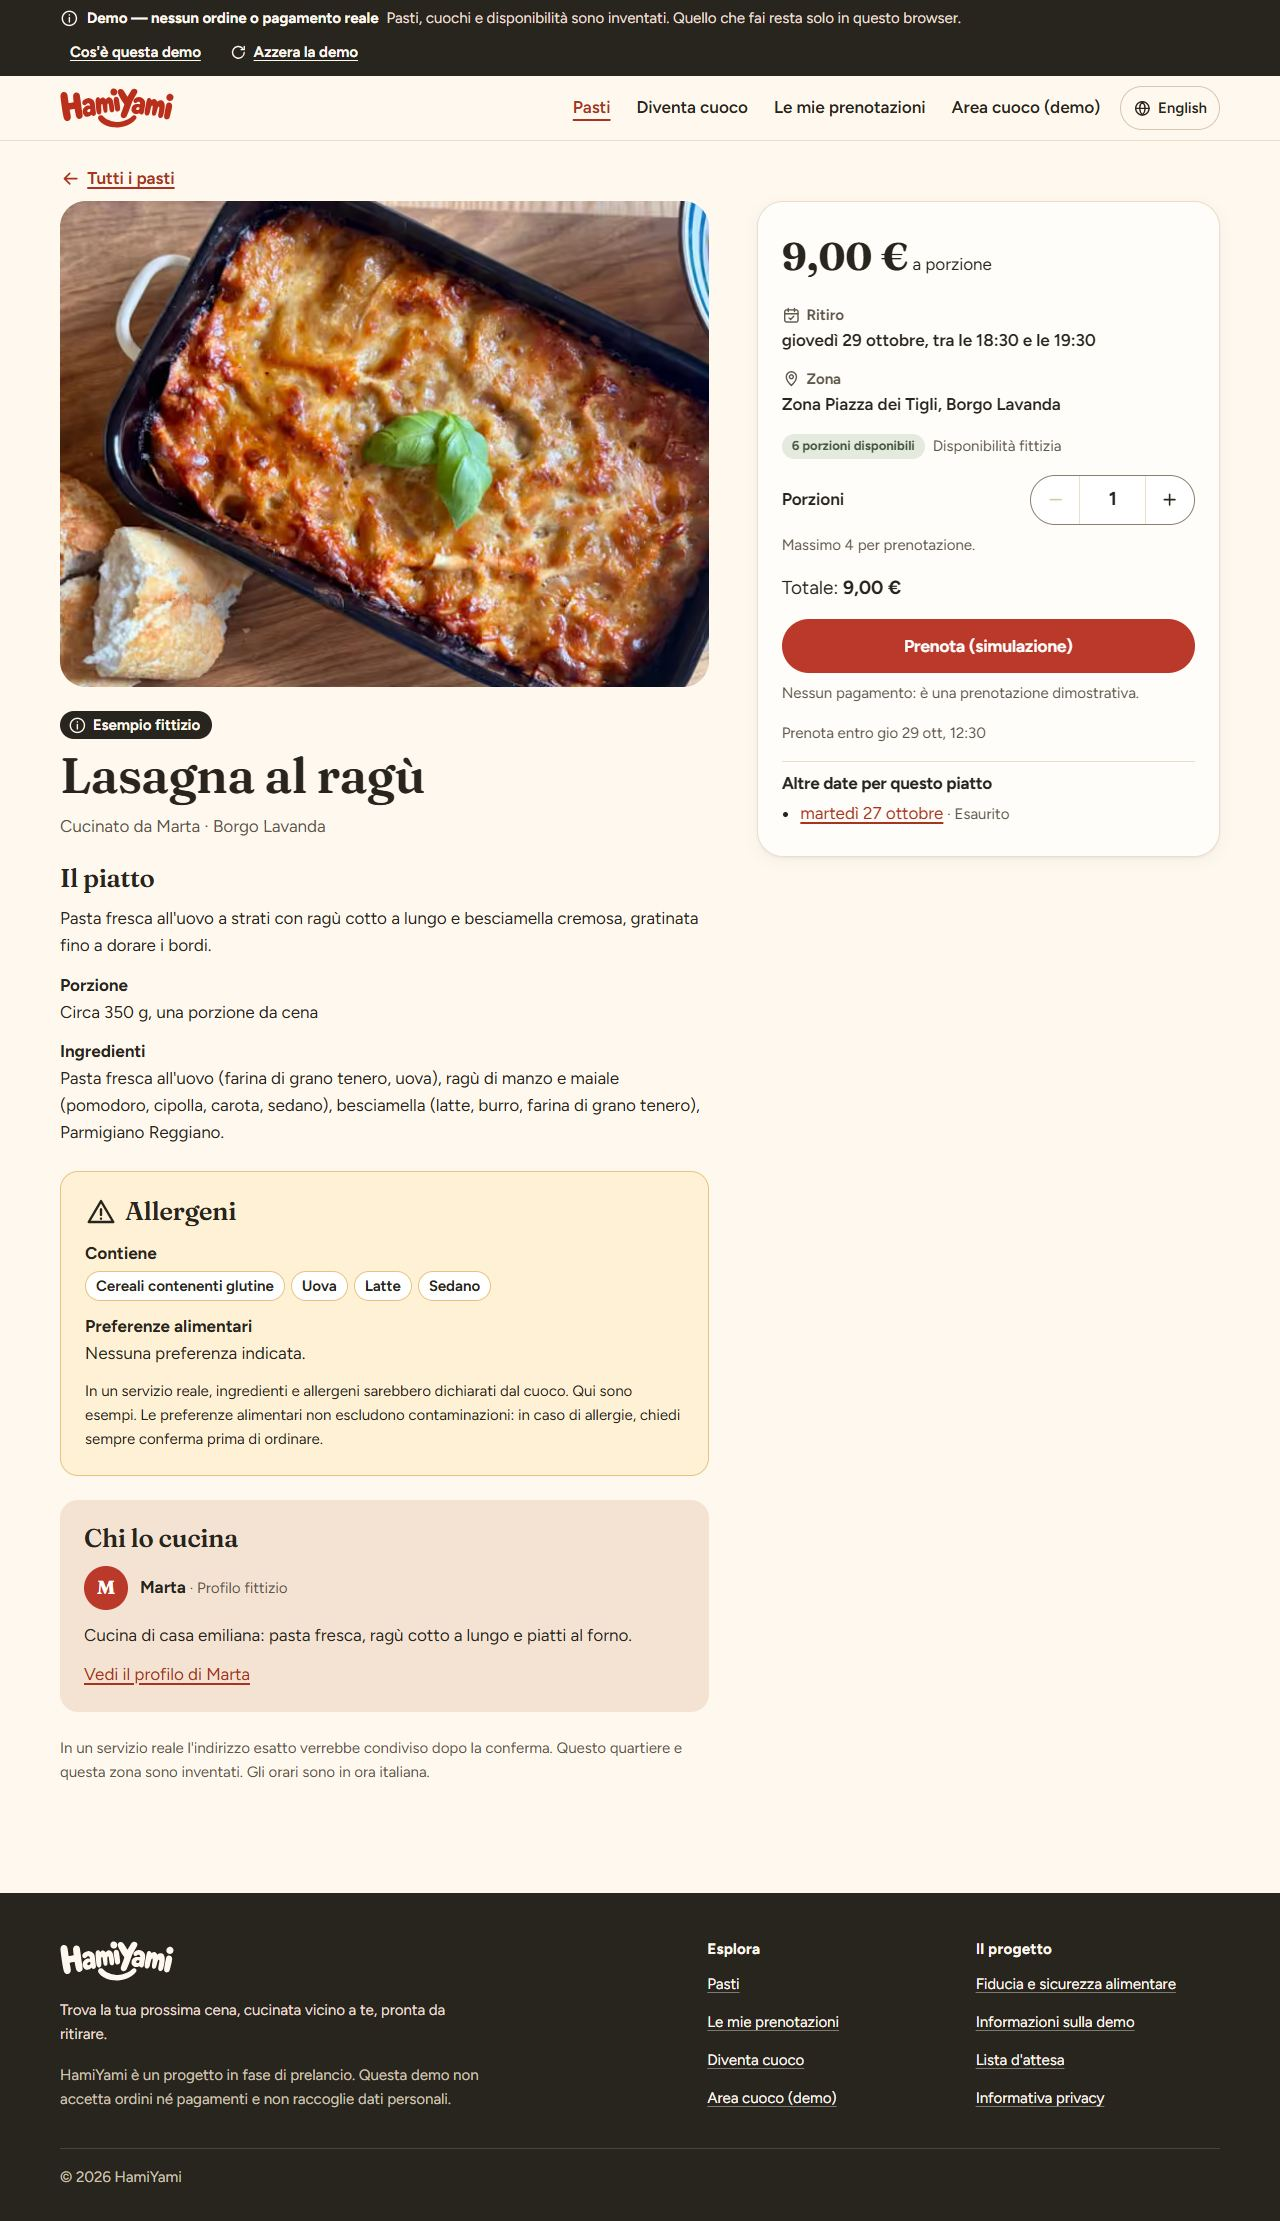
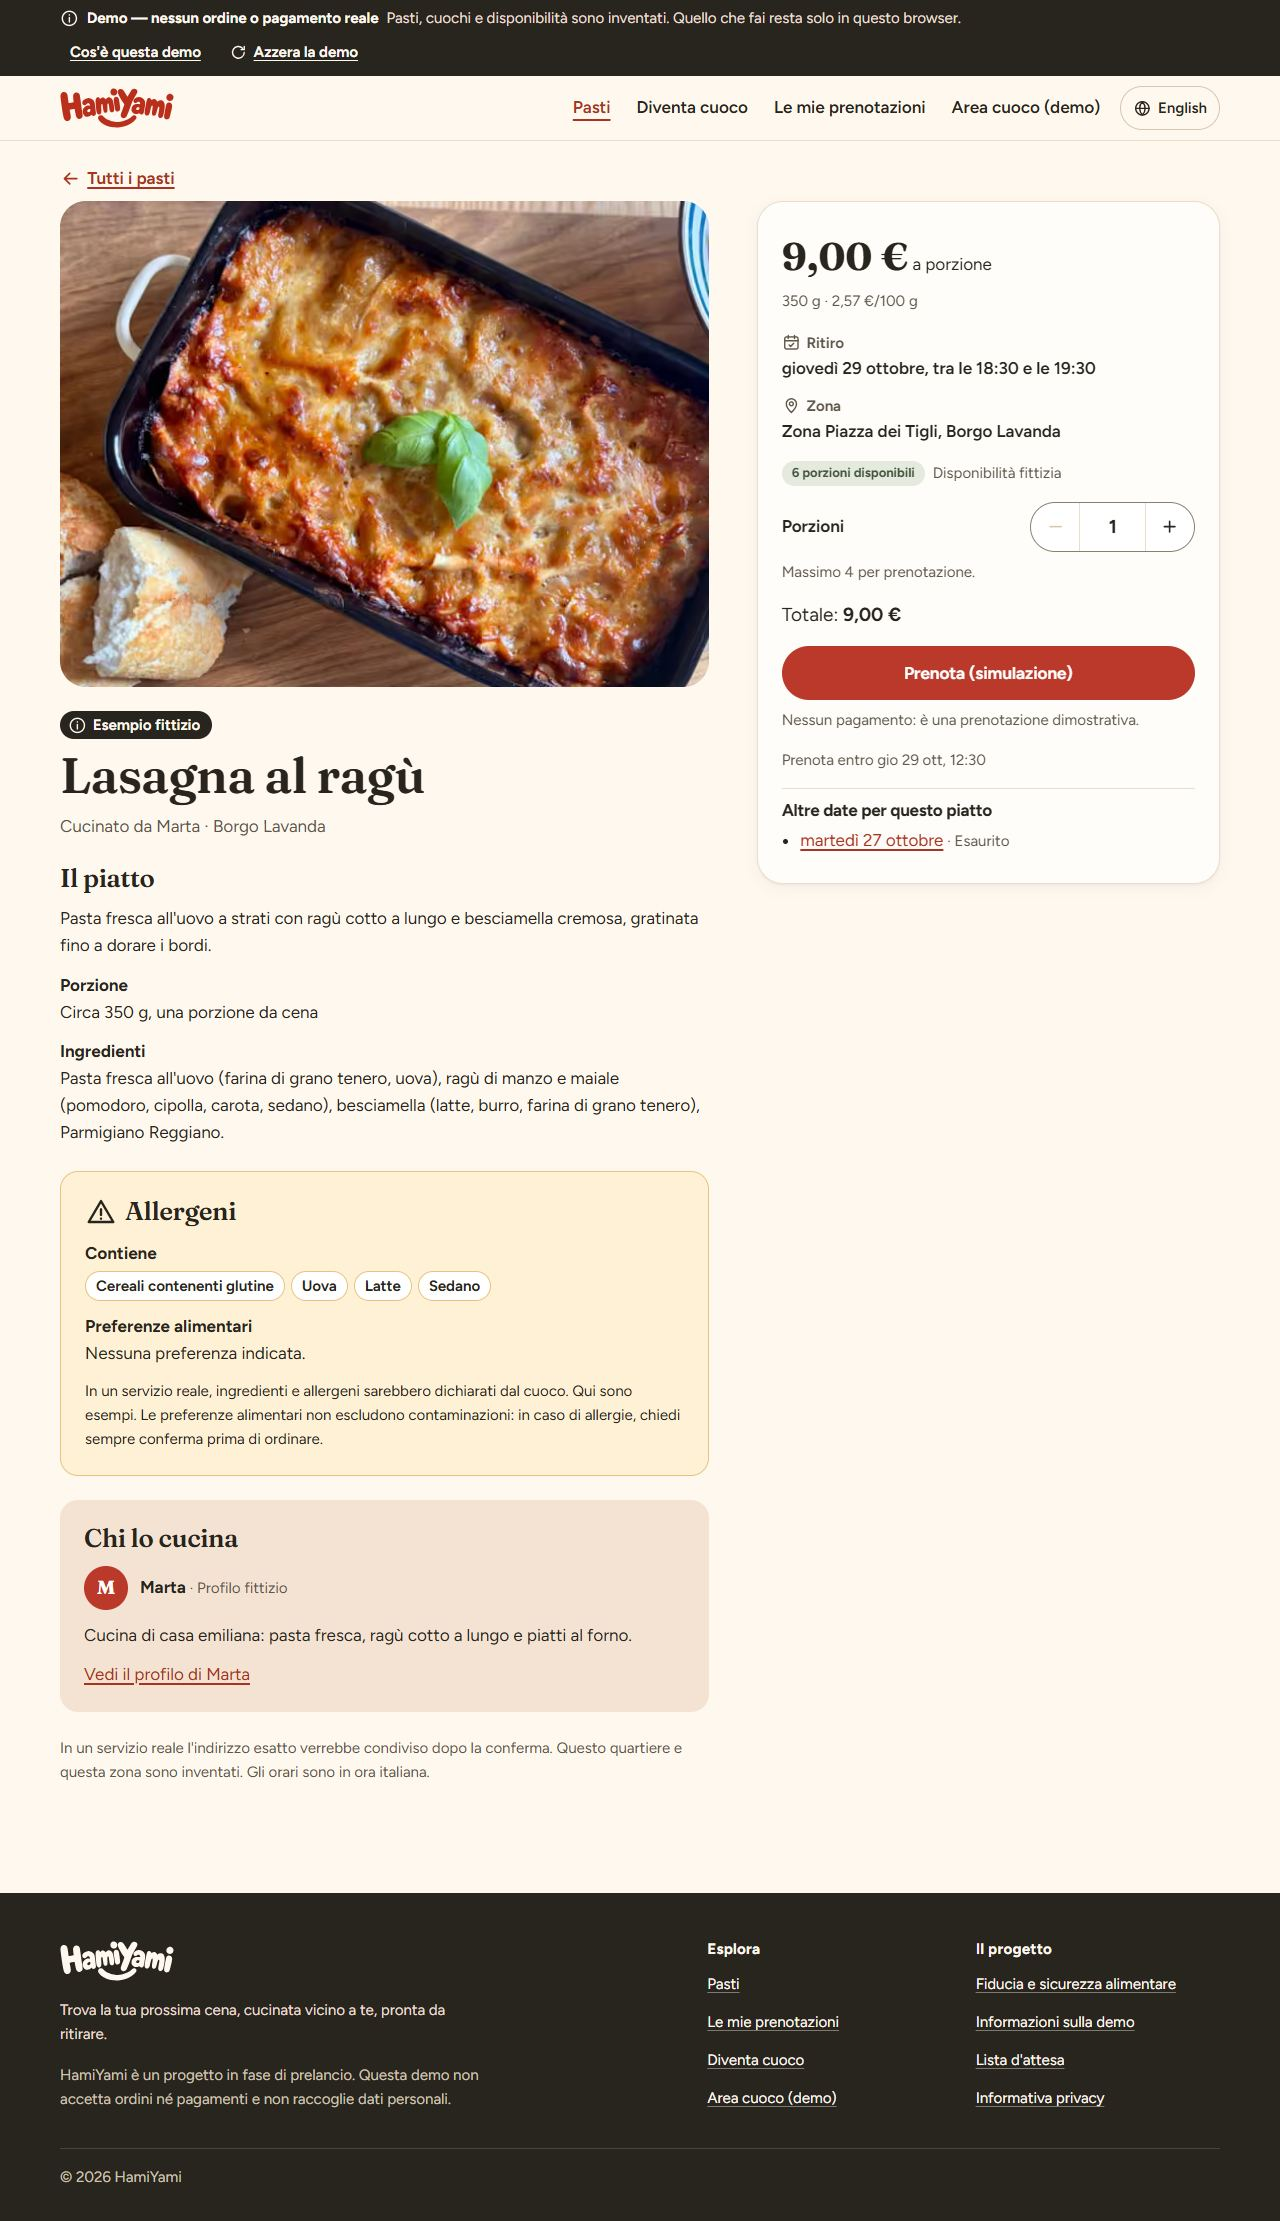
Document open pricing and fix a timing-sensitive reservation test
README: open pricing rules (wide bounds, typo confirmation, portion sizes
and price per 100 g, neutral ordering), sorting and menu-based price
steps, the cook's price reference, server-side work for a real pilot,
updated verification results and limitations; screenshots refreshed.
The pickup-time test now waits for the pickup step before submitting it.

Changed region(s): [[0.5938, 0.1243, 0.9375, 0.4039], [0.9062, 0.2175, 0.9375, 0.2485]]

diff --git a/tests/e2e/reservation.spec.ts b/tests/e2e/reservation.spec.ts
@@ -100,6 +100,8 @@ test.describe("simulated reservation", () => {
     await openReservableMeal(page);
     await page.getByRole("button", { name: "Prenota (simulazione)" }).click();
     await page.getByRole("button", { name: "Continua" }).click();
+    // Wait for the pickup step before submitting it without a time.
+    await expect(page.getByRole("heading", { name: /Passo 2 di 3/ })).toBeVisible();
     await page.getByRole("button", { name: "Continua" }).click();
     await expect(page.getByText("Scegli un orario di ritiro.")).toBeVisible();
     await expect(page.getByRole("heading", { name: /Passo 2 di 3/ })).toBeVisible();

diff --git a/README.md b/README.md
@@ -31,12 +31,12 @@ HamiYami is a planned marketplace for meals prepared by neighborhood cooks in It
 | Journey | Where | What it demonstrates |
 |---|---|---|
 | Homepage | `/it` | The dinner use case, prelaunch status, this week's meals, how it would work, a short trust summary, the cook journey |
-| Meal discovery | `/it/meals` | Weekly menu for the pilot neighborhood, grouped by pickup day; each card says when reservations close (Rome time); day, neighborhood, dietary-preference and price filters (kept in the URL); empty states; fictional availability |
+| Meal discovery | `/it/meals` | Weekly menu for the pilot neighborhood, grouped by pickup day; each card says when reservations close (Rome time) and shows the portion size with the price per 100 g/ml; sort by pickup time or price; day, neighborhood, dietary-preference and price filters (price steps come from the prices on the menu; all kept in the URL); empty states; fictional availability |
 | Meal details | `/it/meals/{offering}` | Photo or neutral placeholder, portion, ingredients, declared allergens and possible cross-contact (kept apart from dietary preferences), cook, pickup window and area, quantity, sold-out and closed states |
 | Simulated reservation | `/it/meals/{offering}/reserve` | Portions → pickup time → review → demo confirmation. No payment, no account, no personal details. Double-submit and Back-button safe |
 | My reservations | `/it/reservations` | View and cancel simulated reservations until the cut-off; each upcoming one has a pickup code and an "Add to calendar" (.ics) link built in the browser |
 | Cook profile | `/it/cooks/{cook}` | Clearly fictional profile, cooking style, sample menu, upcoming demo dates, and *no* verification claims, ratings or testimonials |
-| Cook workspace | `/it/cook-workspace` | A labelled **simulation** of a fictional cook's tools. It opens on a day-by-day **prep view** (portions to cook, requests to confirm, still free, and the pickup list with codes, where reservations are confirmed or declined), then dates (publish/unpublish, edit) and dishes (create, edit) |
+| Cook workspace | `/it/cook-workspace` | A labelled **simulation** of a fictional cook's tools. It opens on a day-by-day **prep view** (portions to cook, requests to confirm, still free, and the pickup list with codes, where reservations are confirmed or declined), then dates (publish/unpublish, edit; the cook sets any price, sees the neighborhood's price range, and confirms only a likely typo) and dishes (create, edit, optional portion weight/volume) |
 | Become a cook / Waitlist | `/it/become-a-cook`, `/it/waitlist` | Interest form with shared validation; while collection is off it says plainly that nothing was sent |
 | Trust | `/it/trust` | The *planned* food-safety approach, future-facing only |
 | About the demo, Privacy | `/it/demo`, `/it/privacy` | What is and isn't real; the privacy notice placeholder |
@@ -126,6 +126,7 @@ Dependencies are deliberately few: `next`, `react`, `react-dom`, `zod`, `server-
 ## Domain rules
 
 - **Money** is integer cents with an explicit currency (`EUR`), parsed from typed input without floating-point maths (`domain/money.ts`).
+- **Open pricing** (`domain/pricing.ts`): cooks set their own prices; HamiYami does not control them. Wide bounds (€0.50–€200 per portion) only reject impossible values. A price more than twice, or under half, the median of at least three other local prices asks the cook to confirm (it is usually a typo such as 85 for 8,50) and can be kept. To make prices comparable, dishes may have a portion size in grams or millilitres, and cards show the price per 100 g/ml. Default ordering is by pickup time, never by popularity, so new cooks are seen as much as established ones.
 - **Time:** pickup dates are Europe/Rome civil dates and pickup windows are Rome wall-clock times, whatever the visitor's device time zone. Instants are used only for cut-offs. Windows must fall between 07:00 and 23:00, so DST changes (02:00–03:00) can never create missing or repeated pickup times. Tests cover the October 2026 clock change.
 - **Offering:** dish, cook, neighborhood, pickup point (general area only), date, window, price, capacity (1–60), max per reservation (1–8, ≤ capacity), cut-off (hours before pickup), published/unpublished.
 - **Capacity:** portions held by reservations in `requested`, `confirmed`, `collected` or `not_collected` count against capacity; cancelled/declined ones release it. A reservation takes 1…min(remaining, max per reservation). A cook cannot lower capacity below portions already held. Reservations close at the cut-off.
@@ -190,7 +191,7 @@ The contracts in `src/data/contracts.ts` are the seam: screens and application f
    - cook status changes (confirm, decline, collected) only for their own offerings, following the transition rules in `domain/reservation.ts`;
    - administrative actions (onboarding checks, suspending sales, recalls) restricted to an admin role and audited;
    - with Supabase, enforce this with Row Level Security policies as well as in the server code.
-5. **Atomic inventory and idempotency.** Creating a reservation must check capacity and insert in one transaction, e.g. a conditional update (`update offerings set reserved = reserved + :q where id = :id and reserved + :q <= capacity and status = 'published' and now() < cutoff`) or row locking, plus a unique idempotency key that returns the existing reservation on retry. The browser-side checks in the demo are not sufficient under concurrency. Generate the **pickup code** on the server at the same time, unique among the reservations for that offering (the demo derives it from the id).
+5. **Atomic inventory and idempotency.** Creating a reservation must check capacity and insert in one transaction, e.g. a conditional update (`update offerings set reserved = reserved + :q where id = :id and reserved + :q <= capacity and status = 'published' and now() < cutoff`) or row locking, plus a unique idempotency key that returns the existing reservation on retry. The browser-side checks in the demo are not sufficient under concurrency. Generate the **pickup code** on the server at the same time, unique among the reservations for that offering (the demo derives it from the id). Compute the neighborhood price reference on the server from published offerings, too.
 6. **Remove the demo overlay** (`src/data/demo/`, `DemoProvider`, `useDemoQuery`) once real data flows from the server, or keep it behind a "demo mode" flag. Client components then refresh with server data (e.g. `router.refresh()` after a Server Action) instead of browser storage.
 7. **Payments** (if and when chosen): a provider's hosted checkout, webhooks verified on the server, and reservations confirmed only after payment confirmation.
 8. **Images:** a storage bucket with upload validation (type, size, dimensions), moderation, and rights confirmation from cooks.
@@ -257,13 +258,13 @@ The photos are generic stock, hands-only, not presented as HamiYami cooks or cus
 
 ## Verification
 
-Last run on 23 October 2026, Windows 11, Node 24.20, Chrome stable:
+Last run on 26 October 2026, Windows 11, Node 24.20, Chrome stable:
 
 - `npm run typecheck`: pass (strict TypeScript, route types generated).
 - `npm run lint`: pass, no warnings.
-- `npm test`: 104 unit tests pass (domain time/DST, money, capacity, reservation transitions, demo storage parsing and versioning, demo repositories including idempotency, isolation and reset, day grouping and cut-off display, pickup codes, calendar files (UTC times across the clock change, escaping, 75-octet folding), the cook prep plan, cook forms, waitlist schema/handler/config/store, translations, CSP, URL filters).
+- `npm test`: 114 unit tests pass (open pricing bounds, typo check and price per 100 g, price-step and price sorting, domain time/DST, money, capacity, reservation transitions, demo storage parsing and versioning, demo repositories including idempotency, isolation and reset, day grouping and cut-off display, pickup codes, calendar files (UTC times across the clock change, escaping, 75-octet folding), the cook prep plan, cook forms, waitlist schema/handler/config/store, translations, CSP, URL filters).
 - `npm run build`: pass. With `WAITLIST_COLLECTION_ENABLED=true` and nothing else set, the build fails with the expected list of missing settings.
-- `npm run test:e2e` (`PLAYWRIGHT_CHANNEL=chrome`): 41 browser tests pass on desktop and mobile emulation. They cover browsing, day grouping and filters, meal details, sold-out and quantity rules, reservation completion, cancellation, duplicate submission and Back/Forward, the pickup code and a real .ics download (with no request made), the cook workspace and prep view (including a customer's reservation reaching the same visitor's pickup list with the same code, and the cook's decision showing on the customer's page), per-visitor isolation, reset, corrupted and outdated storage, language switching, keyboard-only reservation, skip link and focus, disabled waitlist (asserts no request is made), the API refusing to store, security headers, no CSP violations, no third-party requests, and no horizontal overflow at 320/375/768px.
+- `npm run test:e2e` (`PLAYWRIGHT_CHANNEL=chrome`): 44 browser tests pass on desktop and mobile emulation. They cover browsing, day grouping, sorting by price, menu-based price steps, portion sizes, filters, meal details, sold-out and quantity rules, reservation completion, cancellation, duplicate submission and Back/Forward, the pickup code and a real .ics download (with no request made), the cook workspace (free pricing with the typo confirmation, the neighborhood price reference) and prep view (including a customer's reservation reaching the same visitor's pickup list with the same code, and the cook's decision showing on the customer's page), per-visitor isolation, reset, corrupted and outdated storage, language switching, keyboard-only reservation, skip link and focus, disabled waitlist (asserts no request is made), the API refusing to store, security headers, no CSP violations, no third-party requests, and no horizontal overflow at 320/375/768px.
 - Manual review of the rendered pages at desktop, tablet and phone widths. Screenshots are in `docs/screenshots/`.
 
 Not verified: screen-reader output with real assistive technology (only the accessibility tree was inspected); Safari and Firefox; a real Supabase project or deployed hosting (no external services were contacted); the hosted Vercel environment's own header handling.
@@ -273,6 +274,7 @@ Not verified: screen-reader output with real assistive technology (only the acce
 - **Every page renders dynamically**, because a nonce-based CSP needs a fresh nonce per request. This costs server time and prevents CDN caching. Next.js's experimental SRI (hash-based CSP) could allow static pages later.
 - Demo data is per browser: it doesn't follow a visitor across devices, and two tabs editing at the same instant can race (last write wins). Real inventory is not shared, by design.
 - The cook workspace always simulates the one fictional cook "Marta". Text a cook types is shown as written in both languages.
+- The price reference and typo check use the prices visible in this visitor's demo; with fewer than three other dishes nearby there is no check.
 - Pickup codes are derived from reservation ids, so two reservations could in theory share one (about 1 in 600,000 per pair); a real service must generate unique codes on the server.
 - Native date and time inputs follow the browser's own language and format.
 - No photo upload; cook-created dishes always show the placeholder.
